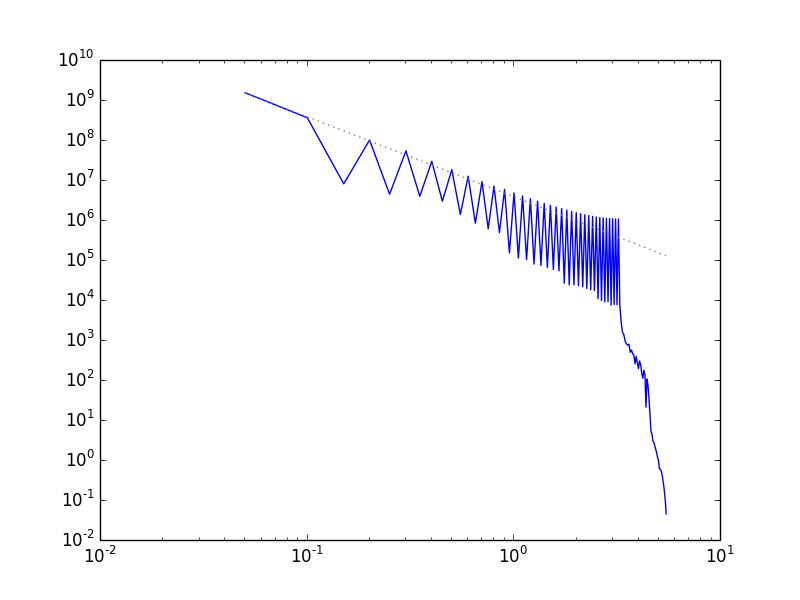
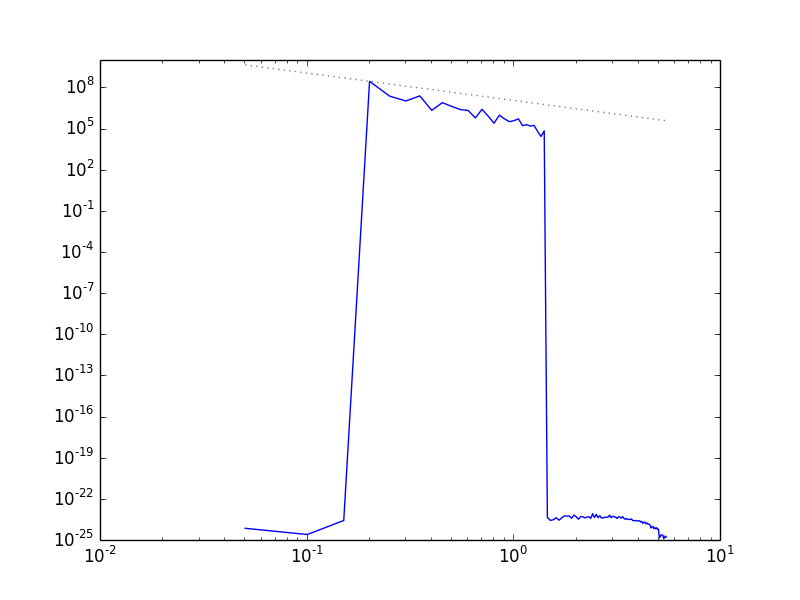
add some plots
also -- I was forgetting the 2pi normalization!!!

diff --git a/ps.py b/ps.py
@@ -2,7 +2,8 @@
 # illustrate that we have the scaling and normalization correct
 
 import numpy as np
-import pylab
+import matplotlib.pyplot as plt
+from mpl_toolkits.axes_grid1 import AxesGrid
 
 N = 64
 
@@ -21,7 +22,7 @@ z = (np.arange(N)+0.5)*(zmax - zmin)/N + zmin
 
 x3d, y3d, z3d = np.meshgrid(x, y, z, indexing="ij")
 
-modes = 16
+modes = 8
 
 A_0 = 1000.0
 
@@ -62,7 +63,36 @@ for m in range(1,modes+1):
             k = np.sqrt(k_x**2 + k_y**2 + k_z**2)
             A = A_0*k**index/weights[ii2]
             
-            phi += A*np.sin(k_x*x3d + k_y*y3d + k_z*z3d)
+            phi += A*np.sin(2.0*np.pi*k_x*x3d + 
+                            2.0*np.pi*k_y*y3d + 
+                            2.0*np.pi*k_z*z3d)
+
+
+# plot it
+
+F = plt.figure()
+
+grid = AxesGrid(F, (0.05, 0.1, 0.85, 0.85), 
+                nrows_ncols = (1, 3),
+                axes_pad = 1.1,
+                label_mode = "all",
+                share_all = False,
+                cbar_location = "right",
+                cbar_mode = "each",
+                cbar_size = "3%",
+                cbar_pad = "0%")
+
+
+im = grid[0].imshow(phi[:,:,N/2], interpolation="nearest")
+grid.cbar_axes[0].colorbar(im)
+
+im = grid[1].imshow(phi[:,N/2,:], interpolation="nearest")
+grid.cbar_axes[1].colorbar(im)
+
+im = grid[2].imshow(phi[N/2,:,:], interpolation="nearest")
+grid.cbar_axes[2].colorbar(im)
+
+plt.savefig("phi.png")
 
 
 # now do the power spectrum
@@ -71,6 +101,35 @@ phi_hat = np.fft.fftn(phi)[0:N/2+1,0:N/2+1,0:N/2+1]
 phi_hat = phi_hat/N**3
 
 phi_hat = abs(phi_hat)**2
+
+
+plt.clf()
+
+F = plt.figure()
+
+grid = AxesGrid(F, (0.05, 0.1, 0.85, 0.85), 
+                nrows_ncols = (1, 3),
+                axes_pad = 1.1,
+                label_mode = "all",
+                share_all = False,
+                cbar_location = "right",
+                cbar_mode = "each",
+                cbar_size = "3%",
+                cbar_pad = "0%")
+
+
+im = grid[0].imshow(phi_hat[:,:,N/4], interpolation="nearest")
+grid.cbar_axes[0].colorbar(im)
+
+im = grid[1].imshow(phi_hat[:,N/4,:], interpolation="nearest")
+grid.cbar_axes[1].colorbar(im)
+
+im = grid[2].imshow(phi_hat[N/4,:,:], interpolation="nearest")
+grid.cbar_axes[2].colorbar(im)
+
+plt.savefig("phihat.png")
+
+
 
 # Parseval's theorem: sum of |phi(x)|**2 = sum of |phi_hat(k)|**2
 print "sum of |phi(x)|**2    = {}".format(np.sum(phi))
@@ -111,17 +170,20 @@ for n in range(len(ncount)):
         E_spectrum[n-1] = np.sum(phi_hat.flat[whichbin==n]) #/ncount[n]
 
 
+
+plt.clf()
+
 k = bins[1:n]
 E_spectrum = E_spectrum[0:len(k)]
 
-pylab.loglog(k, E_spectrum)
+plt.loglog(k, E_spectrum)
 
 ii = np.argmax(E_spectrum)
 kmax = k[ii]
 Emax = E_spectrum[ii]
 
-pylab.loglog(k, Emax*(k/kmax)**index, ls=":", color="0.5")
+plt.loglog(k, Emax*(k/kmax)**index, ls=":", color="0.5")
 
-pylab.savefig("ps.png")
+plt.savefig("ps.png")
 
 
